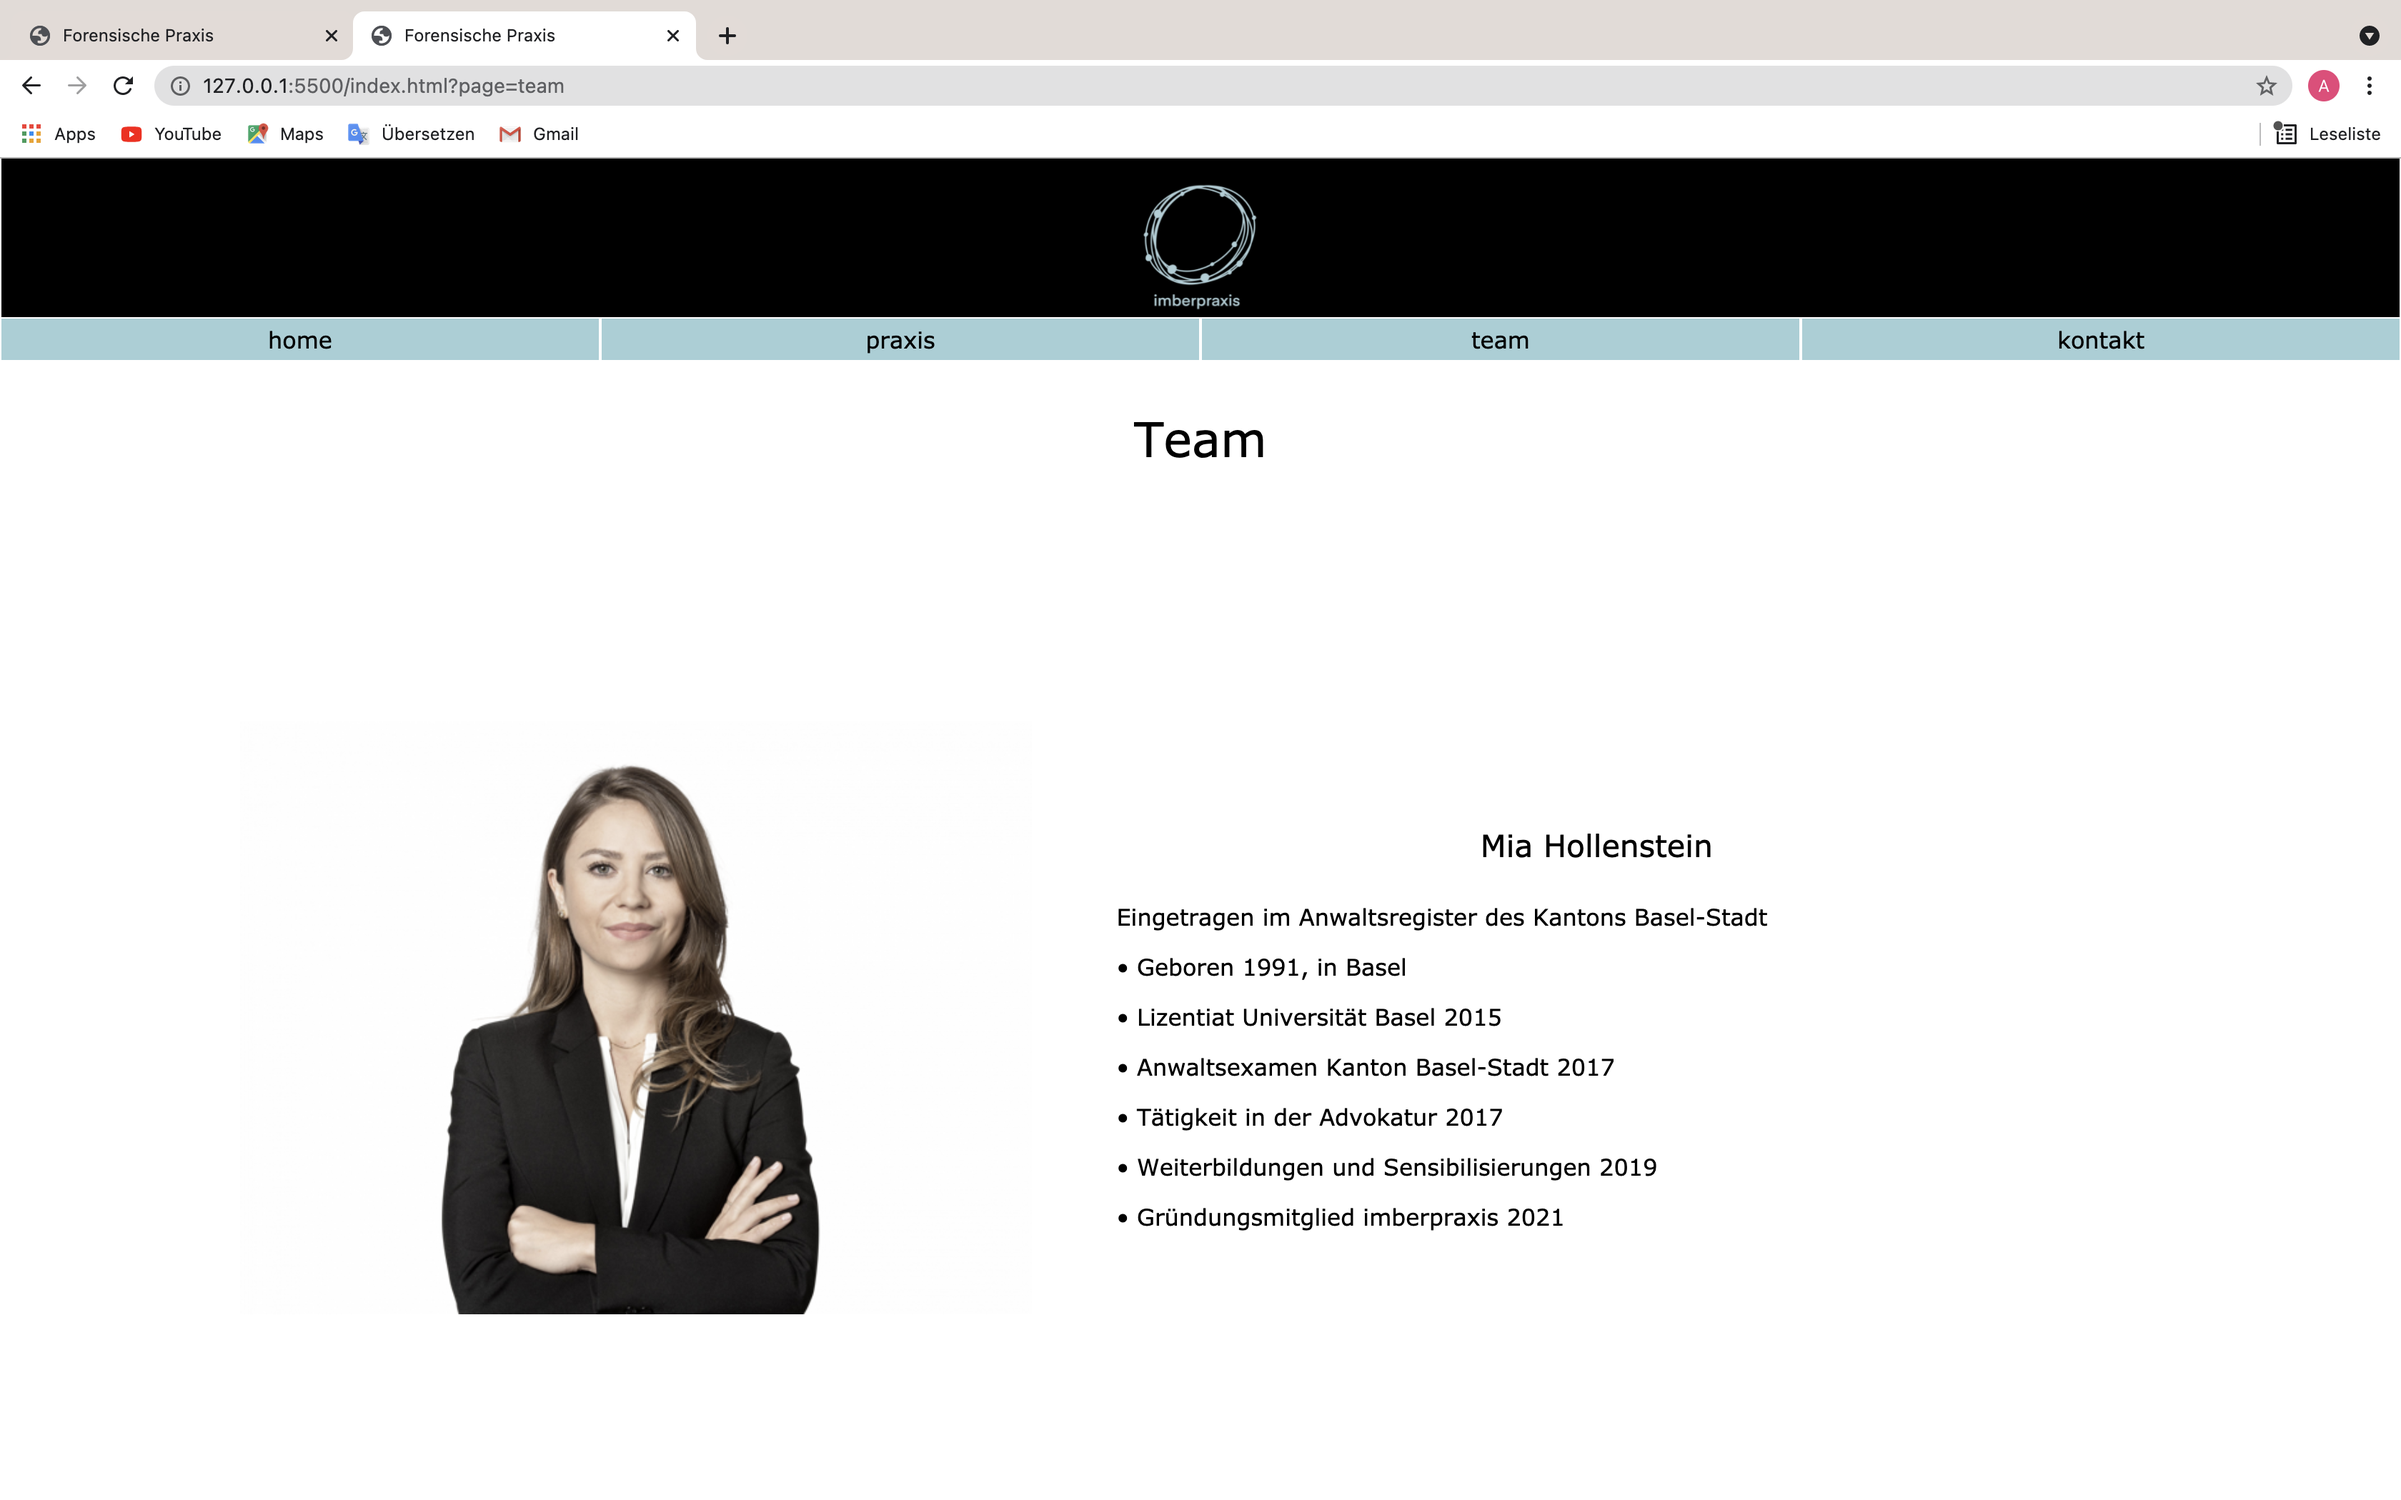
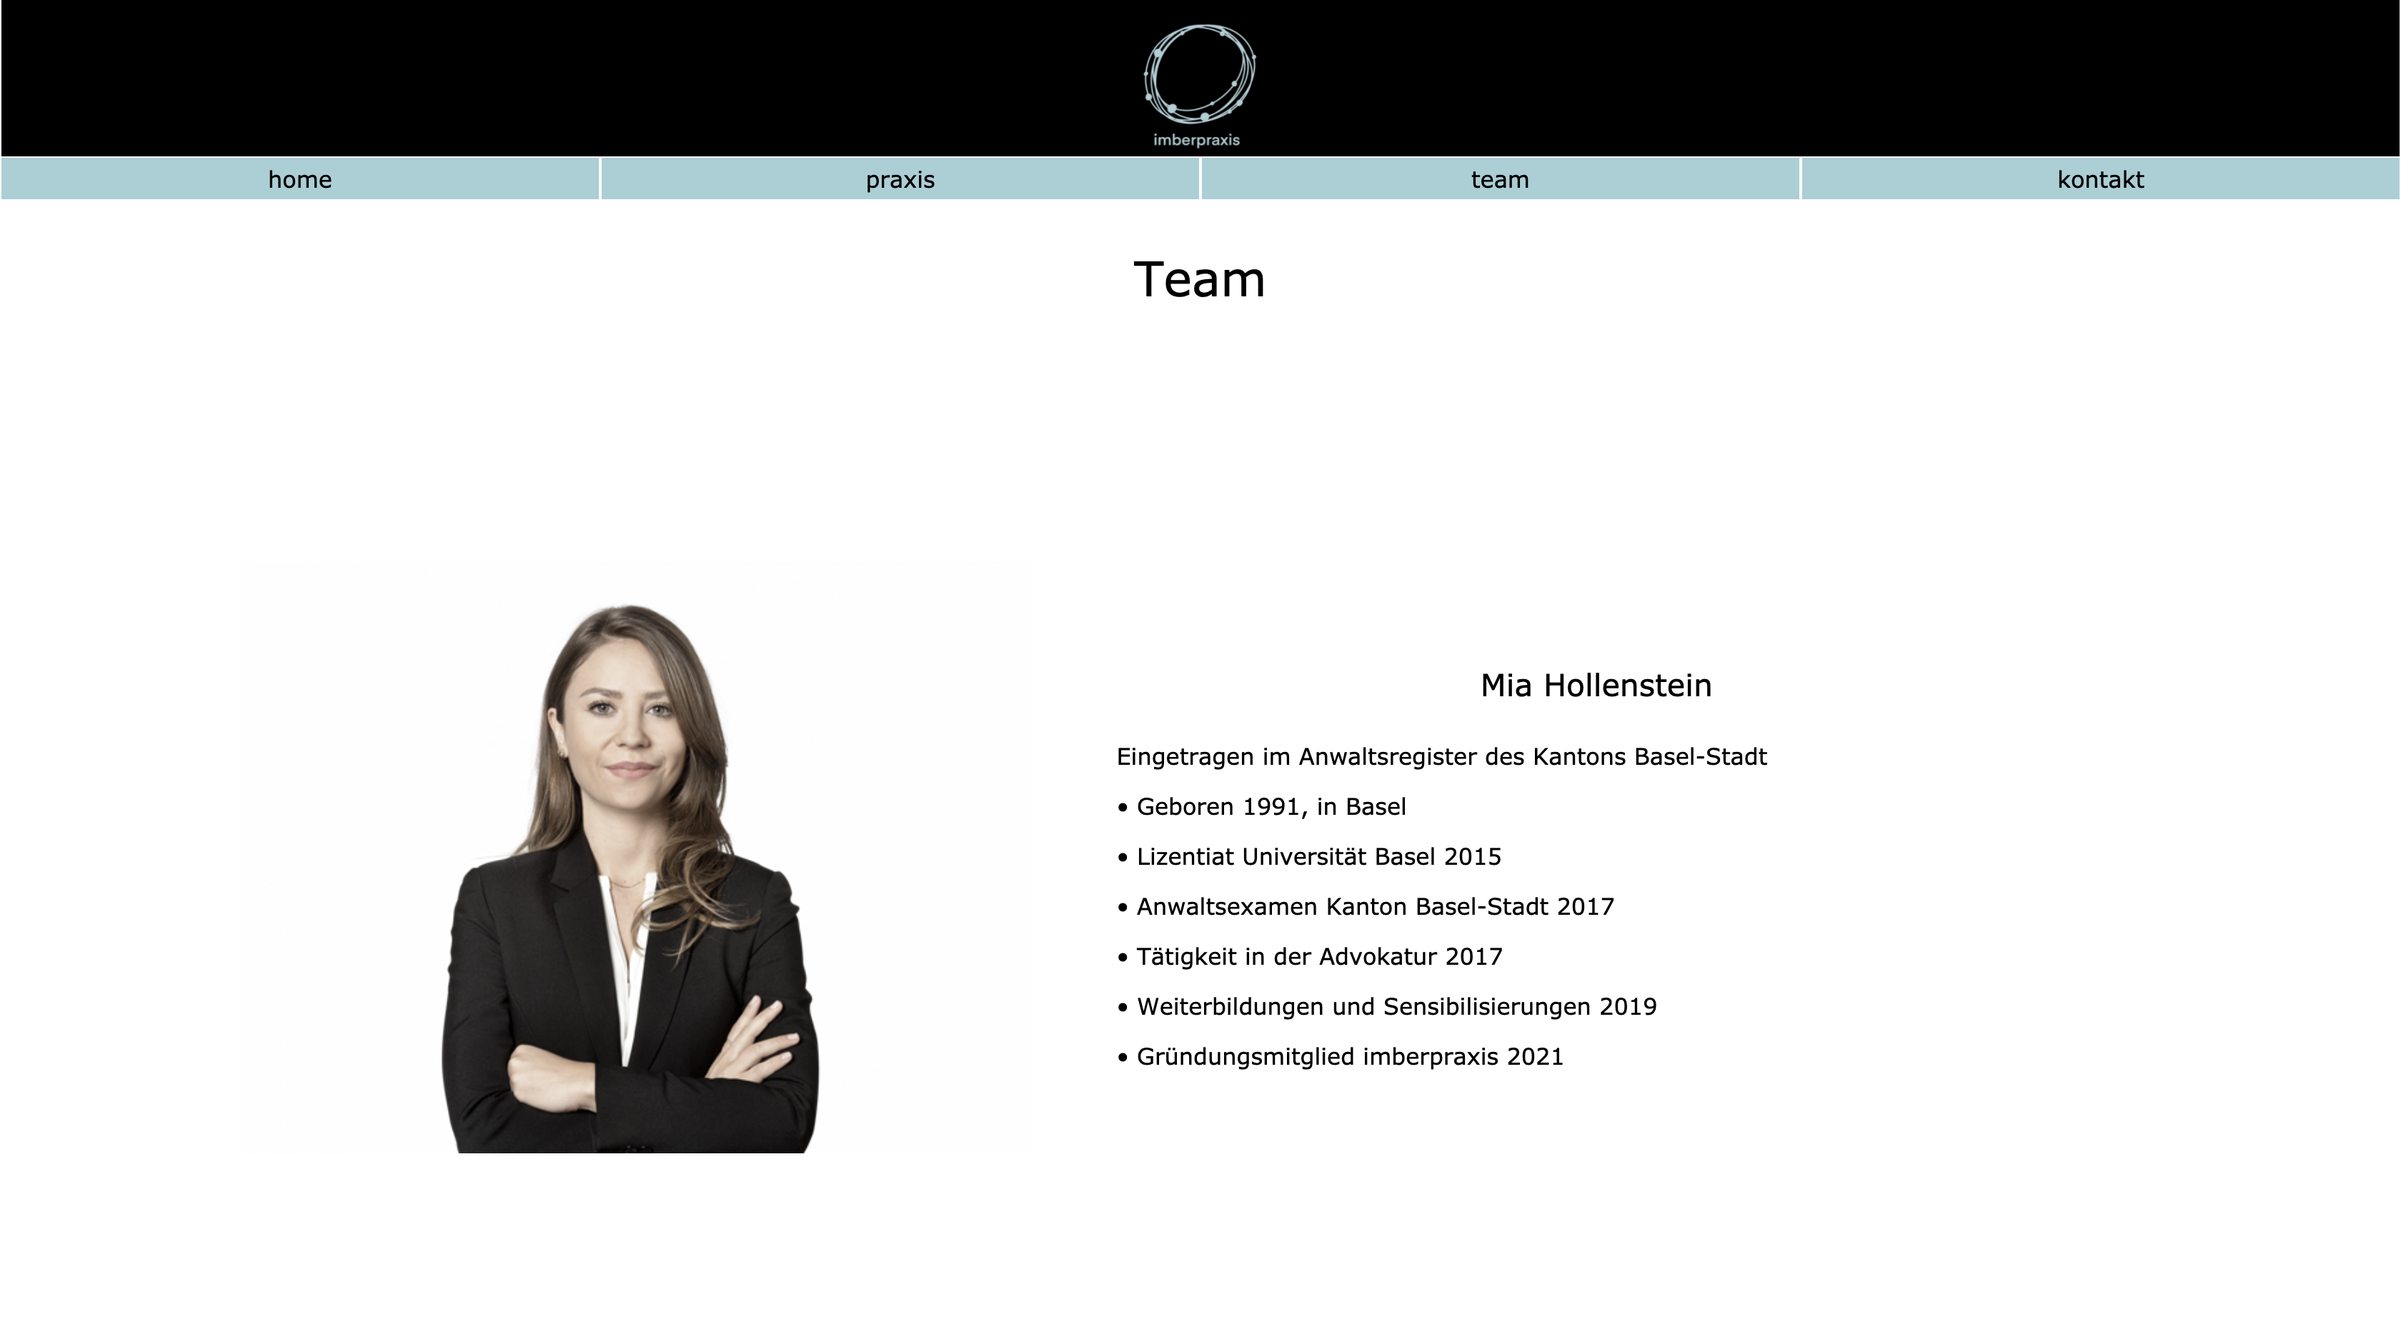
zuschneiden

diff --git a/README.md b/README.md
@@ -1,0 +1,86 @@
+# Forensische Praxis
+
+Unsere Website ist eine forensische Praxis. Diese Praxis besteht aus einer Rechtsmedizinerin, einer Juristin und einem MPA/ Anwaltsgehilfen. Die Idee hinter der Praxis ist, dass man bei einem Unfall oder häuslicher Gewallt unsere Praxis aufsuchen kann, bei der eine medizinische Versorgung und Dokumentation sowie die rechtliche Stütze vorhanden ist.
+Diese Praxisidee kam zustande da wir so unsere individuellen beruflichen Ziele vereibaren können und uns während dieses Arbeitsauftrages näher mit den von uns verfolgten Berufszielen auseinandersetzen können. Als uns diese Idee kam war es auch schnell kar wie wir die Website strukturieren wollen und welche einzelnen Seiten wir passend finden. 
+
+## Projektplan
+
+Auf jeder Unterseite unserer Website befindet sich ein header mit unserem Logo und ein footer mit den wichtigsten Daten zu unserer Praxis. Ausserdem hat man mithilfe des Menus immer zugang zu jeder Unterseite. Beim Menu wollten wir hover-Effekt einbauen. 
+Allgemein war es uns wichtig einheitliche Schriftarten und Schriftgrössen zu verwenden. Dies konnten wir mithilfe des css programmieren.
+ Auf der ganzen Website werden auch nur zwei Titel verwendet. Dies dient zur einheitlichen Gestalltung.  
+
+### Hauptseite - home
+(home.JPG)
+
+
+### Unterseite - praxis
+
+
+
+### Unterseite - team
+
+
+
+### Unterseite - kontakt 
+
+
+
+## Zeitplan
+
+Zeitplan mit mindestens wöchentlichen Meilensteinen. Wann setzt wer etwas um?
+
+| Deadline | Name | Beschreibung |
+| --- | --- | --- |
+| 03.05.2021 | Anna Bühler und Mia Hollenstein | Thema der Website ausgesucht |
+| 09.05.2021 | Anna Bühler und Mia Hollenstein| Zeitplan geschrieben|
+| 10.05.2021 | Anna Bühler und Mia Hollenstein | Planung des Aufbaus der Website |
+| 10.05.2021 |  Anna Bühler und Mia Hollenstein| haeder und footer gemacht, Logo gestalltet , Öffnungszeiten hinzugefügt|
+| 17.05.2021 | Anna Bühler |Menue mit hover- Effekt, Anwendung flex-Box, Formatierung |
+| 17.05.2021 | Mia Hollenstein | Text für home Seite geschrieben, begonnen mit der Bilderwahl, Kurzbeschreibung der Website im readme geschrieben |
+| 21.05.2021 | Anna Bühler und Mia Hollenstein | home- und kontaktseite formatiert |
+| 23.05.2021 | Anna Bühler | praxis- und teamseite formatiert, css strukturiert und kommentiert || 04.01.2021 | Vorname Name | Das wird gemacht |
+| 23.05.2021 | Mia Hollenstein | readme weitergeschrieben |
+| 24.05.2021 | Anna Bühler und Mia Hollenstein | Bilder eingefügt, Text fertig geschrieben und eingefügt auf allen Seiten, readme fertiggestellt  |
+
+
+## Umsetzung
+
+Detaillierte Beschreibung der umgesetzten Webseite.
+
+### Hauptseite
+
+Screenshot mit Beschreibung.
+
+### Unterseite 1
+
+Screenshot mit Beschreibung.
+
+### Impressum
+
+Screenshot mit Beschreibung.
+
+usw...
+
+## Zusammenfassung
+
+Zusammenfassung mit Vergleich zwischen Planung und Umsetzung. Was hat geklappt und was nicht? Konnte der Zeitplan eingehalten werden? Konnten die Skizzen umgesetzt werden?
+
+---
+
+Tipps zum README-Markdown:
+- Eine Liste kann man einfach so schreiben
+- Mit Rechtsklick auf `README.md`, `Open Preview` kann man eine Live-Vorschau des Textes sehen 
+- So schreibt man *kursiv*, **fett** und beides ***fettkursiv***
+- So kann man ein Bild einfügen: ![Bildtext](link-zum-bild.jpg)
+- So kann man einen Link einfügen [Linktext](https://google.com)
+
+So kann `einzeiliger Code` eingefügt werden.
+
+So kann mehrzeiliger Code eingefügt werden.
+```
+.test {
+    background-color: blue;
+}
+```
+
+- Weitere Hilfen gibt es hier: https://guides.github.com/features/mastering-markdown
